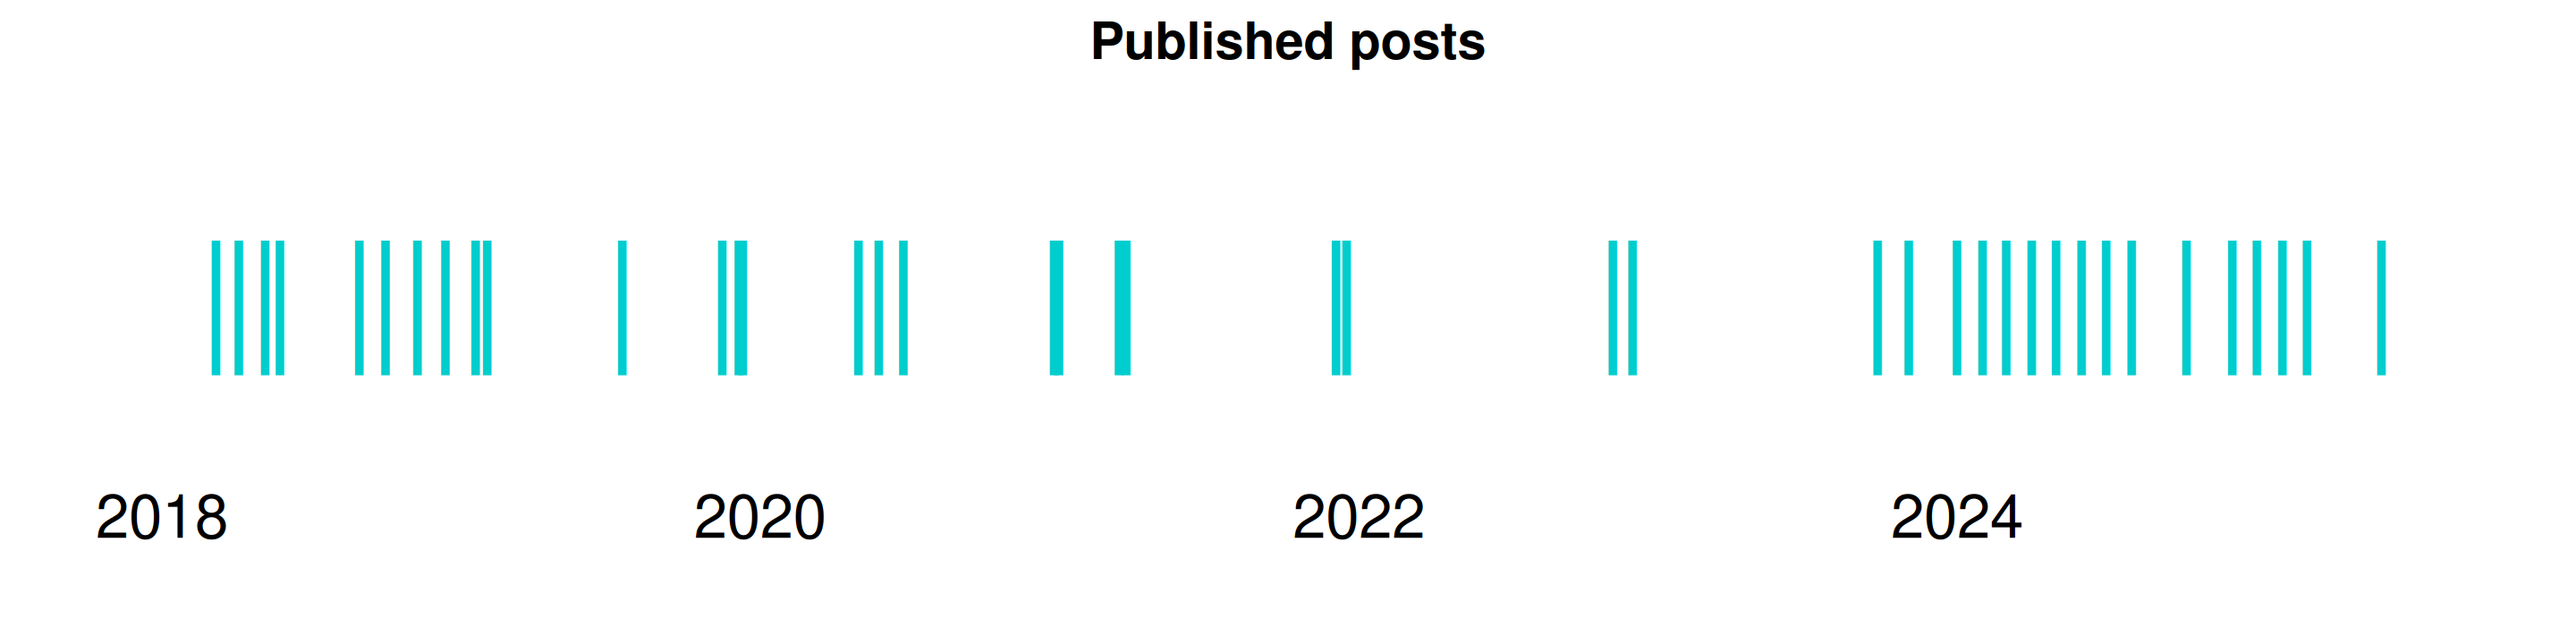
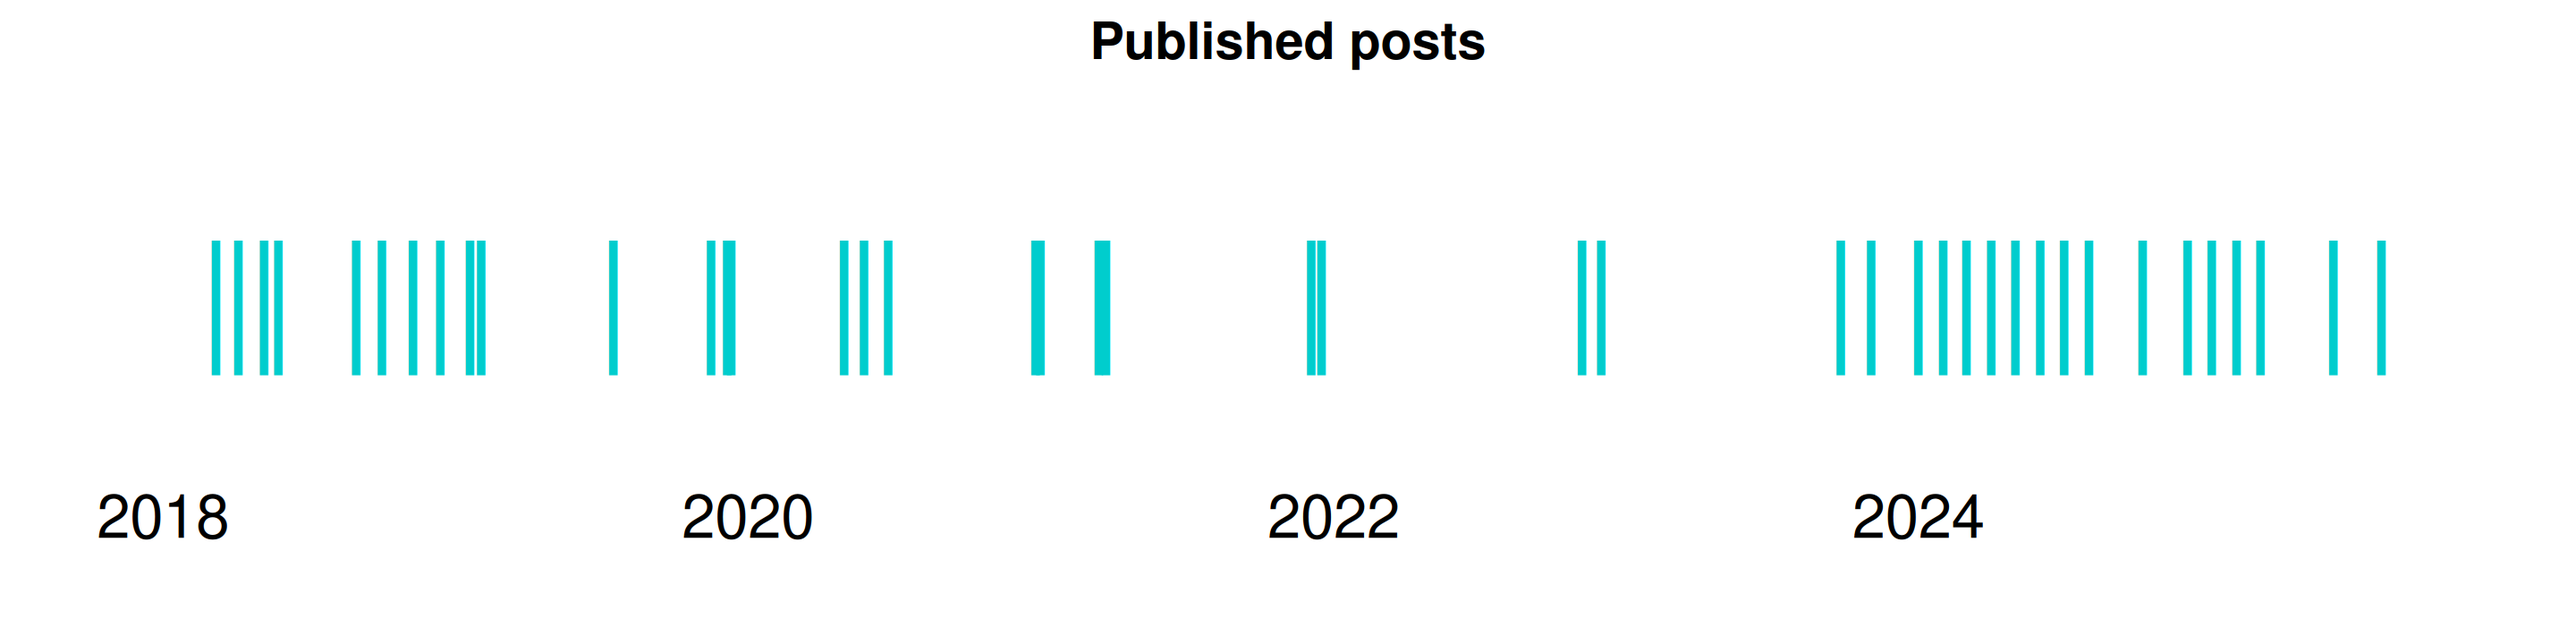
Re-build README.Rmd

diff --git a/README.md b/README.md
@@ -11,14 +11,14 @@ code for my content.
 
 ## Some stats
 
-🎉 DrMowinckels has **46** posts since **NA**!
+🎉 DrMowinckels has **47** posts since **NA**!
 
 📅 That’s a post roughly every **NA** days, or about **NA** posts per
 month, since NA.
 
-✍ The last post was published **NA** days ago ([“Decoding OAuth2 M2M
-with httr2: Client Setup & API
-Testing”](https://drmowinckels.io/blog/httr2_client)).
+✍ The last post was published **NA** days ago ([Automate LinkedIn
+Carousels with R and
+Gemini](https://drmowinckels.io/blog/linkedin_gemini)).
 
 😉 I’ll post as often as I am able, and hope people find it interesting.
 I’d love your feedback in the comments!
@@ -32,6 +32,7 @@ I’d love your feedback in the comments!
 
 | Date       | Title                                                                                                                                                                                    |
 |:-----------|:-----------------------------------------------------------------------------------------------------------------------------------------------------------------------------------------|
+| 2025-08-01 | [Automate LinkedIn Carousels with R and Gemini](https://drmowinckels.io/blog/linkedin_gemini)                                                                                            |
 | NA         | [“Decoding OAuth2 M2M with httr2: Client Setup & API Testing”](https://drmowinckels.io/blog/httr2_client)                                                                                |
 | 2025-06-02 | [“Unmasking Long Covid: PCA & Clustering Analysis of Symptom Syndromes”](https://drmowinckels.io/blog/visible-pca)                                                                       |
 | NA         | [A year with Visible Long-Covid Tracking](https://drmowinckels.io/blog/visible)                                                                                                          |
@@ -87,4 +88,4 @@ I’d love your feedback in the comments!
 Dray](https://www.rostrum.blog/2021/04/14/gha-readme/) and [Piping Hot
 Data](https://github.com/shannonpileggi/pipinghotdata_distill/blob/master/README.Rmd).*
 
-*Updated 2025-07-30 01:46:58.922782*
+*Updated 2025-08-06 01:52:08.302092*
